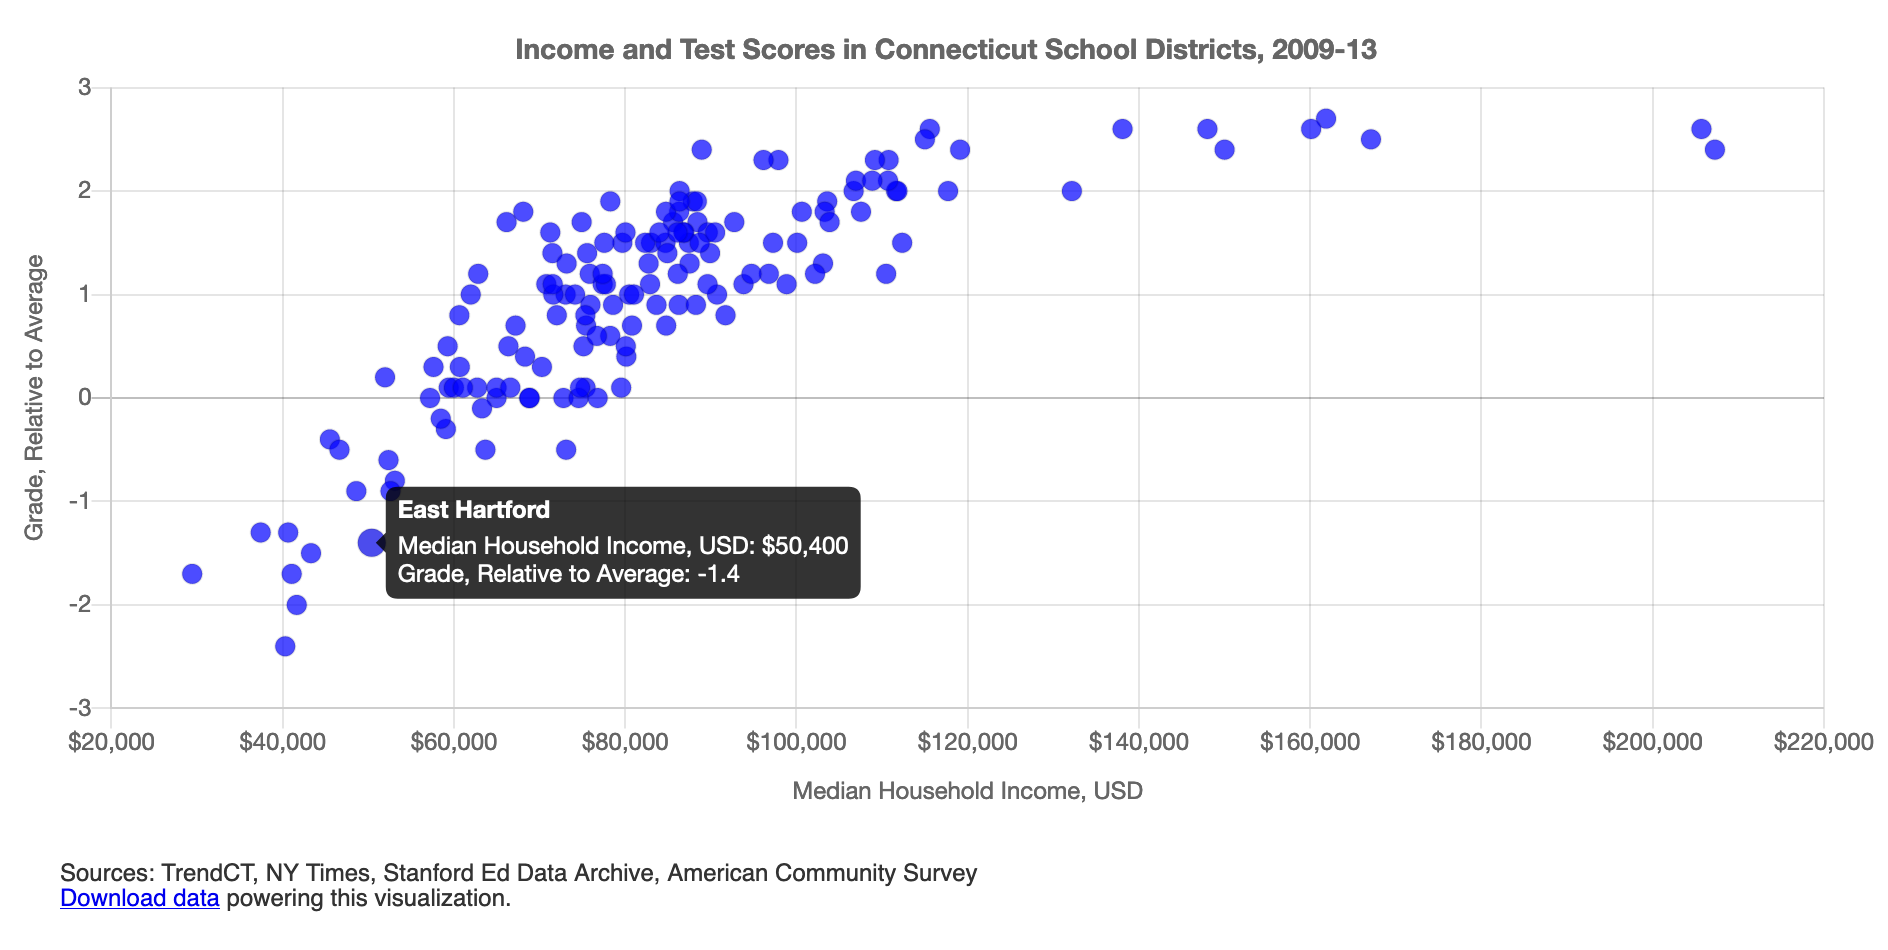
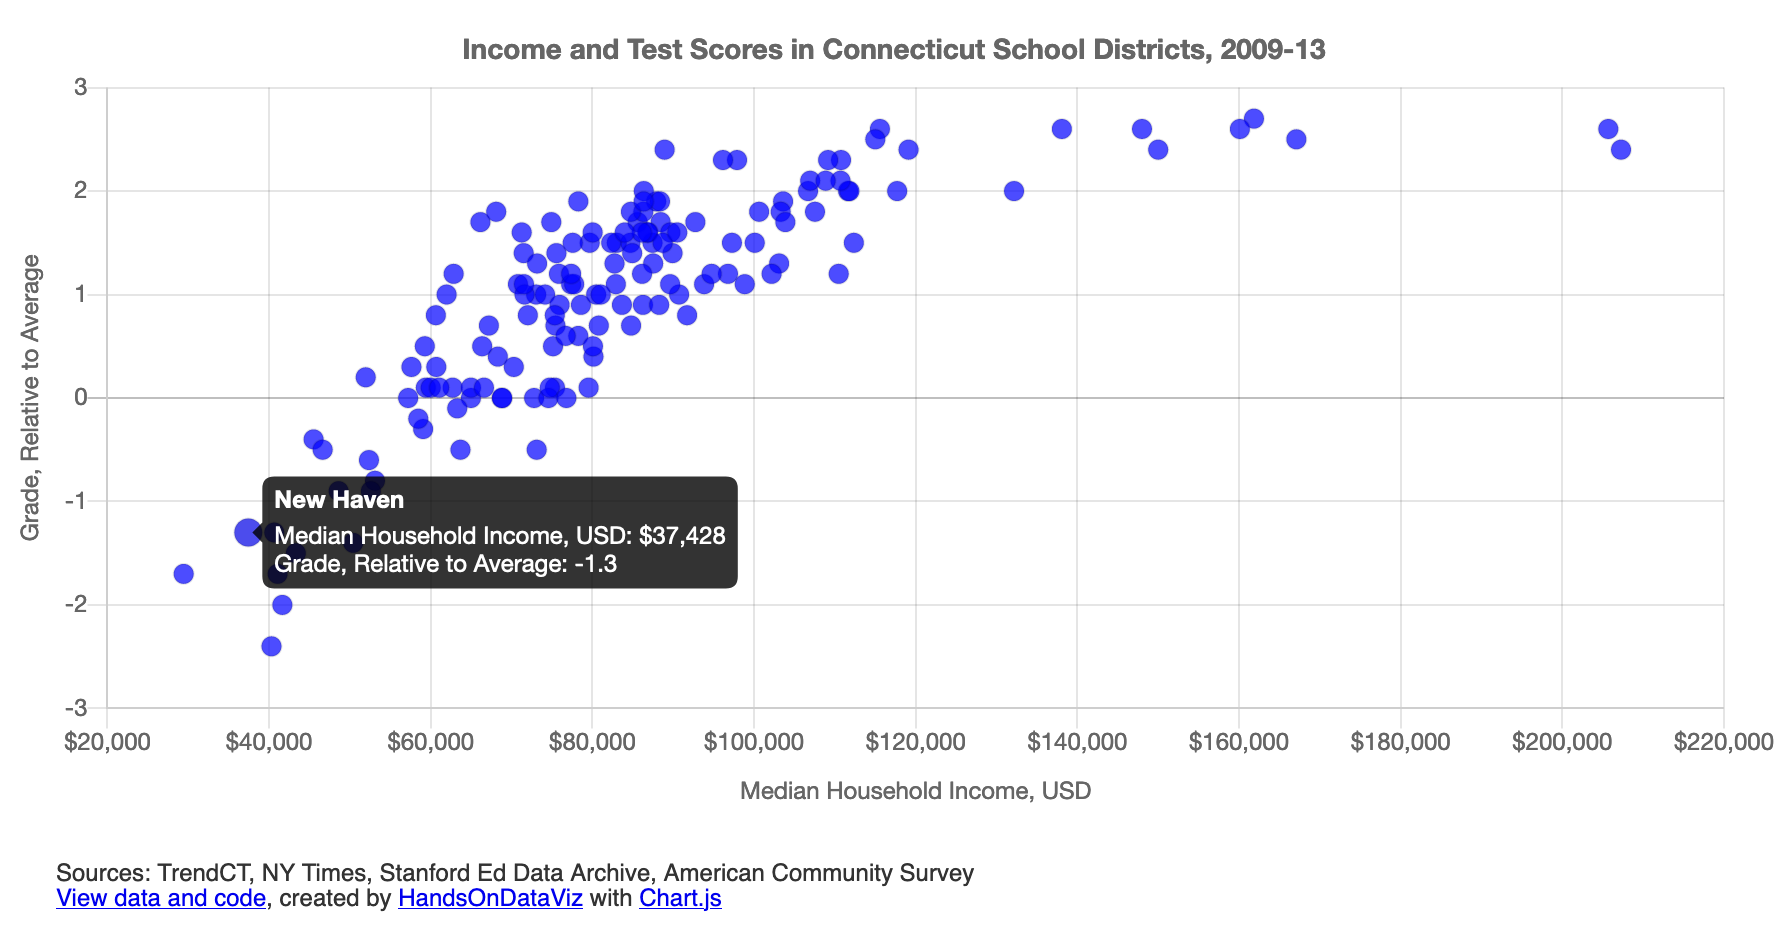
Modify credit line, update screenshot

diff --git a/index.html b/index.html
@@ -23,7 +23,9 @@
     <p style="font-family: Helvetica; color: #333; padding: 1em 2em; font-size: 12px">
       Sources: TrendCT, NY Times, Stanford Ed Data Archive, American Community Survey
       <br>
-      <a href="./data.csv">Download data</a> powering this visualization.
+      <a href="https://github.com/HandsOnDataViz/chartjs-scatter">View data and code</a>,
+      created by <a href="https://handsondataviz.org/">HandsOnDataViz</a>
+      with <a href="https://www.chartjs.org/">Chart.js</a>
     </p>
 
     <script src="script.js"></script>
